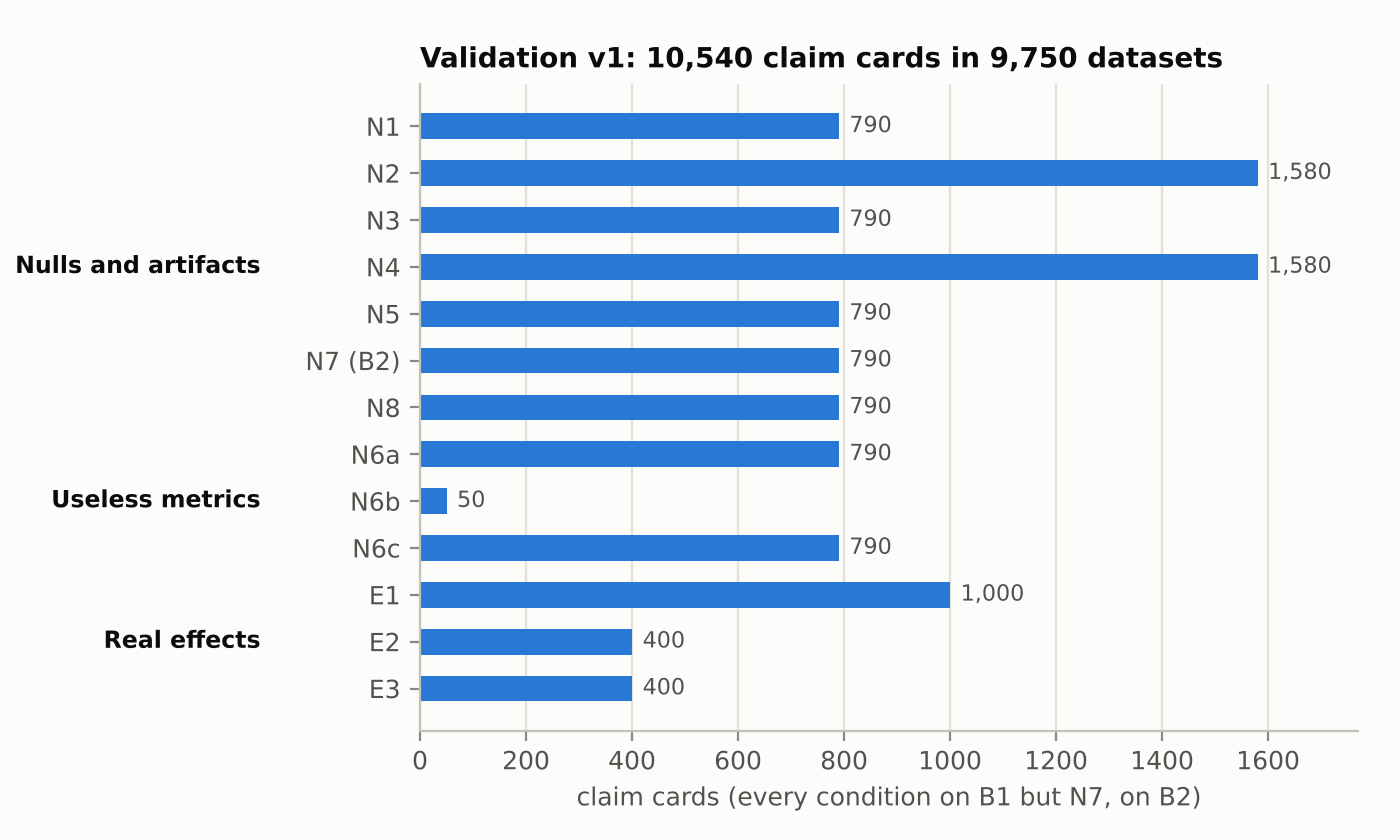
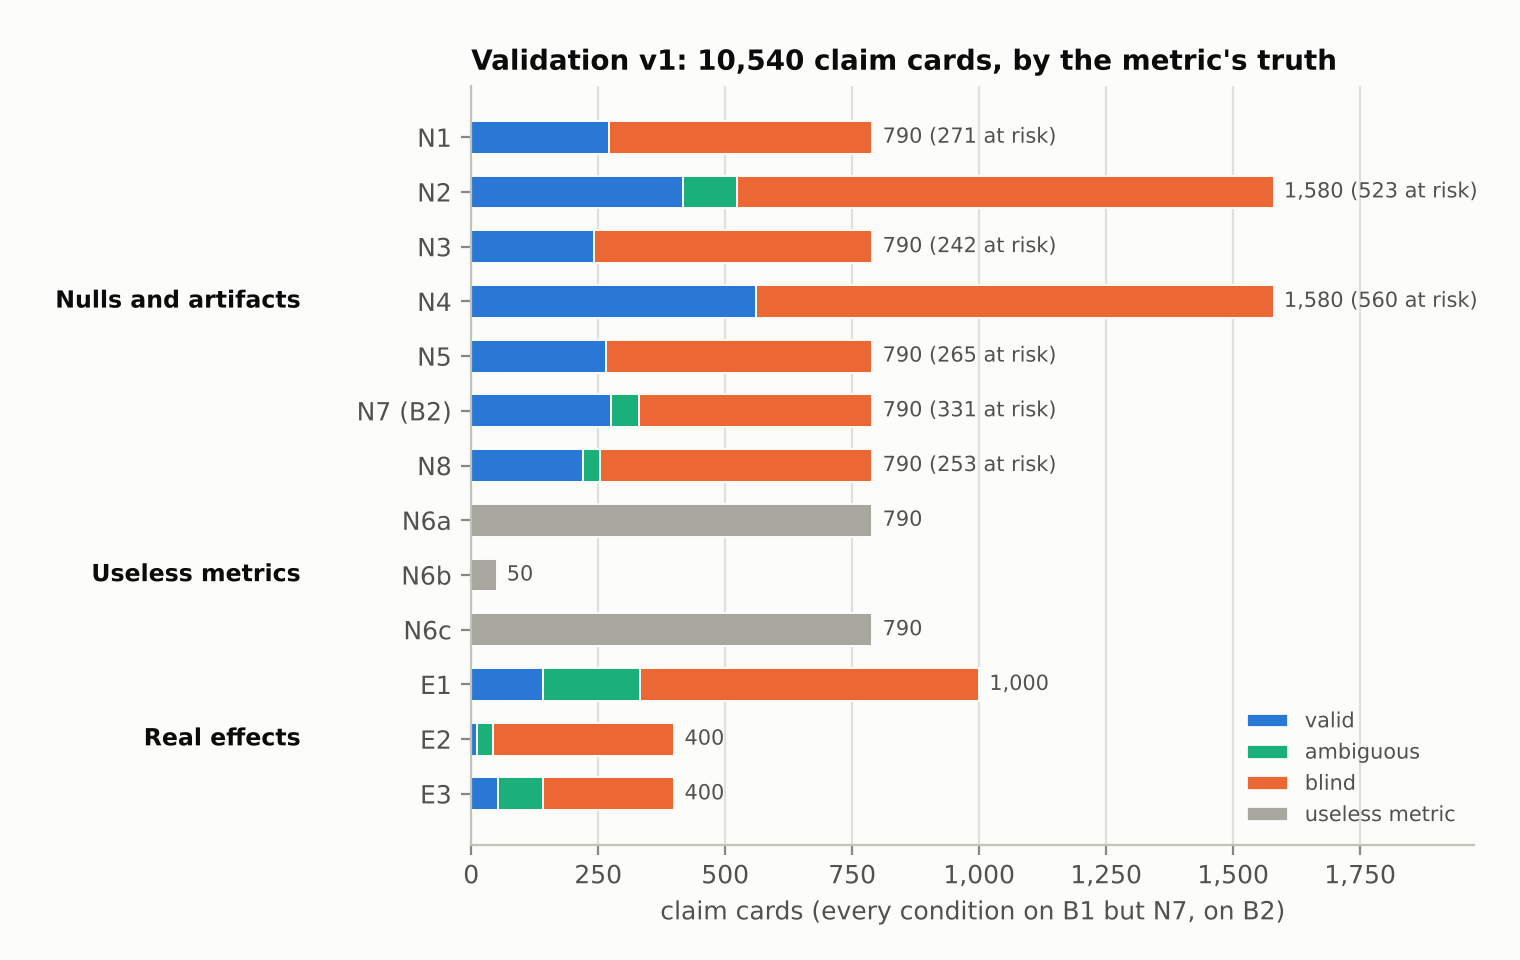
figures: Fig. 1 split by the metric's truth; Fig. 2's axis reads 'limit'
Fig. 1 stacks each condition's cards by the oracle's truth (valid, ambiguous, blind; the
useless metrics in a neutral fill) with the cards at risk on each null, from
v1_nulls_by_truth.log. The three hues pass the dataviz validator on all pairs.

Claude-Session: https://claude.ai/code/session_01MDGJh7hAAALAdwQFLhcwpp

diff --git a/paper/figures_v03/make_figures.py b/paper/figures_v03/make_figures.py
@@ -2,14 +2,17 @@
 
     python paper/figures_v03/make_figures.py --scores scores.json --audit audit_results.json \
         --b2-log validation/exploratory/b2_sex_structure.log \
-        --null-cells-log validation/exploratory/v1_null_cells.log --out paper/figures_v03
+        --null-cells-log validation/exploratory/v1_null_cells.log \
+        --by-truth-log validation/exploratory/v1_nulls_by_truth.log --out paper/figures_v03
 
 * scores.json: branch results/panel-v1 (commit adc7d65), the scores of validation v1.
 * audit_results.json: branch results/flagship-audit (commit d2a5420), the flagship audit on TMS.
 * b2_sex_structure.log: B2 by sex and GATE 4's probe for R1's Xist claim (workflow run 38045140802).
 * v1_null_cells.log: the twelve null cells of the high expression level, with Holm's correction.
+* v1_nulls_by_truth.log: every condition's cards by the oracle's truth about the metric.
 
-Fig. 1 the design of v1 (claim cards per condition); Fig. 2 the criteria against their limits;
+Fig. 1 the design of v1 (claim cards per condition, by the metric's truth); Fig. 2 the criteria
+against their limits;
 Fig. 3 false SUPPORTED in the twelve null cells at the high expression level; Fig. 4 the real
 positive controls of v0.1.1 and v0.3; Fig. A1 (appendix) TMS per mouse. Every number drawn is also
 in the manuscript's text or tables. Needs matplotlib (an optional dependency of the package).
@@ -26,6 +29,7 @@ import matplotlib
 
 matplotlib.use("Agg")
 import matplotlib.pyplot as plt  # noqa: E402
+import matplotlib.ticker  # noqa: E402
 
 ROOT = Path(__file__).resolve().parents[2]
 sys.path.insert(0, str(ROOT / "src"))
@@ -36,6 +40,7 @@ from audit_tms import exact_permutation_p  # noqa: E402  (the audit's own test, 
 # the reference palette (dataviz skill, light mode), validated for these three slots all-pairs
 SURFACE, INK, INK2, MUTED, GRID, AXIS = "#fcfcfb", "#0b0b0b", "#52514e", "#898781", "#e1e0d9", "#c3c2b7"
 BLUE, ORANGE, AQUA = "#2a78d6", "#eb6834", "#1baf7a"
+NEUTRAL = "#a8a79f"  # not a series hue: the useless metrics, which are not the pair metric at all
 
 plt.rcParams.update({
     "figure.facecolor": SURFACE, "axes.facecolor": SURFACE, "savefig.facecolor": SURFACE,
@@ -56,9 +61,17 @@ def _limit_line(ax, x, label):
             va="bottom", ha="left", zorder=4, bbox=dict(boxstyle="square,pad=0.1", fc=SURFACE, ec="none"))
 
 
-def fig1_design(scores: dict, out: Path):
-    """Claim cards per condition, grouped by what the data are."""
+def _by_truth(log: Path) -> dict:
+    """{condition: (valid, ambiguous, blind, useless, all)} from v1_nulls_by_truth.log's last table."""
+    text = log.read_text().split("## Every condition's cards by the metric's truth")[1]
+    rows = re.findall(r"^  ([NE]\d[a-c]?)\s+(\d+)\s+(\d+)\s+(\d+)\s+(\d+)\s+(\d+)$", text, flags=re.M)
+    return {c: tuple(int(x) for x in v) for c, *v in rows}
+
+
+def fig1_design(scores: dict, by_truth_log: Path, out: Path):
+    """Claim cards per condition, grouped by what the data are, each bar split by the metric's truth."""
     pc = scores["per_condition"]
+    truth = _by_truth(by_truth_log)
     order = [("Nulls and artifacts", ["N1", "N2", "N3", "N4", "N5", "N7", "N8"]),
              ("Useless metrics", ["N6a", "N6b", "N6c"]),
              ("Real effects", ["E1", "E2", "E3"])]
@@ -66,17 +79,30 @@ def fig1_design(scores: dict, out: Path):
     for group, conds in order:
         for c in conds:
             n = sum(int(v["n"]) for k, v in pc.items() if k.split(":")[0] == c)
-            rows.append((group, c, n))
-    fig, ax = plt.subplots(figsize=(7.0, 4.2))
+            if truth[c][4] != n:
+                raise SystemExit(f"{c}: {truth[c][4]} cards in {by_truth_log.name}, {n} in scores.json")
+            rows.append((group, c, n, truth[c]))
+    fig, ax = plt.subplots(figsize=(7.6, 4.8))
     y = list(range(len(rows)))[::-1]
-    ax.barh(y, [r[2] for r in rows], height=0.55, color=BLUE, zorder=2)
-    for yi, (_, c, n) in zip(y, rows):
-        ax.text(n + 20, yi, f"{n:,}", va="center", color=INK2, fontsize=8)
+    classes = (("valid", BLUE), ("ambiguous", AQUA), ("blind", ORANGE), ("useless metric", NEUTRAL))
+    for yi, (group, c, n, t) in zip(y, rows):
+        left = 0
+        for (name, color), w in zip(classes, t[:4]):
+            if w:
+                ax.barh([yi], [w], left=left, height=0.6, color=color, edgecolor=SURFACE, linewidth=0.7, zorder=2)
+                left += w
+        risk = t[0] + t[1]
+        ax.text(n + 20, yi, f"{n:,}" + (f" ({risk:,} at risk)" if group == "Nulls and artifacts" else ""),
+                va="center", color=INK2, fontsize=7.5)
     ax.set_yticks(y, [f"{r[1]} (B2)" if r[1] == "N7" else r[1] for r in rows])
     ax.grid(axis="y", visible=False)
     ax.set_xlabel("claim cards (every condition on B1 but N7, on B2)")
     total = sum(r[2] for r in rows)
-    ax.set_title(f"Validation v1: {total:,} claim cards in 9,750 datasets")
+    ax.set_title(f"Validation v1: {total:,} claim cards, by the metric's truth")
+    from matplotlib.patches import Patch
+    ax.legend(handles=[Patch(facecolor=color, edgecolor=SURFACE, label=name) for name, color in classes],
+              loc="lower right", fontsize=7.5, frameon=False)
+    ax.xaxis.set_major_formatter(matplotlib.ticker.FuncFormatter(lambda v, _: f"{v:,.0f}"))
     # group labels at the left margin
     start = 0
     for group, conds in order:
@@ -84,14 +110,14 @@ def fig1_design(scores: dict, out: Path):
         ax.text(-0.17, (max(ys) + min(ys)) / 2, group, transform=ax.get_yaxis_transform(), ha="right",
                 va="center", color=INK, fontsize=8.5, fontweight="bold")
         start += len(conds)
-    ax.set_xlim(0, max(r[2] for r in rows) * 1.12)
-    fig.subplots_adjust(left=0.30, right=0.97, top=0.90, bottom=0.13)
+    ax.set_xlim(0, max(r[2] for r in rows) * 1.25)
+    fig.subplots_adjust(left=0.31, right=0.97, top=0.91, bottom=0.12)
     fig.savefig(out / "fig1_design.png", dpi=200)
     plt.close(fig)
 
 
 def fig2_criteria(scores: dict, out: Path):
-    """Every cell of the error criteria as a share of its allowance, and S3 as a share of its minimum."""
+    """Every cell of the error criteria as a share of its limit, and S3 as a share of its minimum."""
     cr = scores["criteria"]
     names = {"S2:N6": "S2 N6a", "S4:null:opposite": "S4 null opposite*"}  # S2's N6 group: N6a (N6b cannot be SUPPORTED)
     err = [(f"S1 {c}", v["k"], v["n"], v["max_allowed"]) for c, v in cr["S1"]["conditions"].items()]
@@ -107,7 +133,7 @@ def fig2_criteria(scores: dict, out: Path):
     a.set_xlim(0, 1.08)
     a.grid(axis="y", visible=False)
     _limit_line(a, 1.0, "limit")
-    a.set_xlabel("errors as a share of the allowance")
+    a.set_xlabel("errors as a share of the limit")
     a.set_title("(a) error criteria: every cell below its limit")
     y3 = list(range(len(s3)))[::-1]
     b.scatter([k / m for _, k, _, m in s3], y3, s=36, color=BLUE, edgecolor=SURFACE, linewidth=1.5, zorder=3)
@@ -272,12 +298,13 @@ def main(argv=None) -> int:
     ap.add_argument("--audit", type=Path, required=True)
     ap.add_argument("--b2-log", type=Path, required=True)
     ap.add_argument("--null-cells-log", type=Path, required=True)
+    ap.add_argument("--by-truth-log", type=Path, required=True)
     ap.add_argument("--out", type=Path, default=Path(__file__).resolve().parent)
     args = ap.parse_args(argv)
     scores = json.loads(args.scores.read_text())
     audit = json.loads(args.audit.read_text())
     args.out.mkdir(parents=True, exist_ok=True)
-    fig1_design(scores, args.out)
+    fig1_design(scores, args.by_truth_log, args.out)
     fig2_criteria(scores, args.out)
     fig3_by_level(args.null_cells_log, args.out)
     fig4_controls(audit, args.b2_log, args.out)
